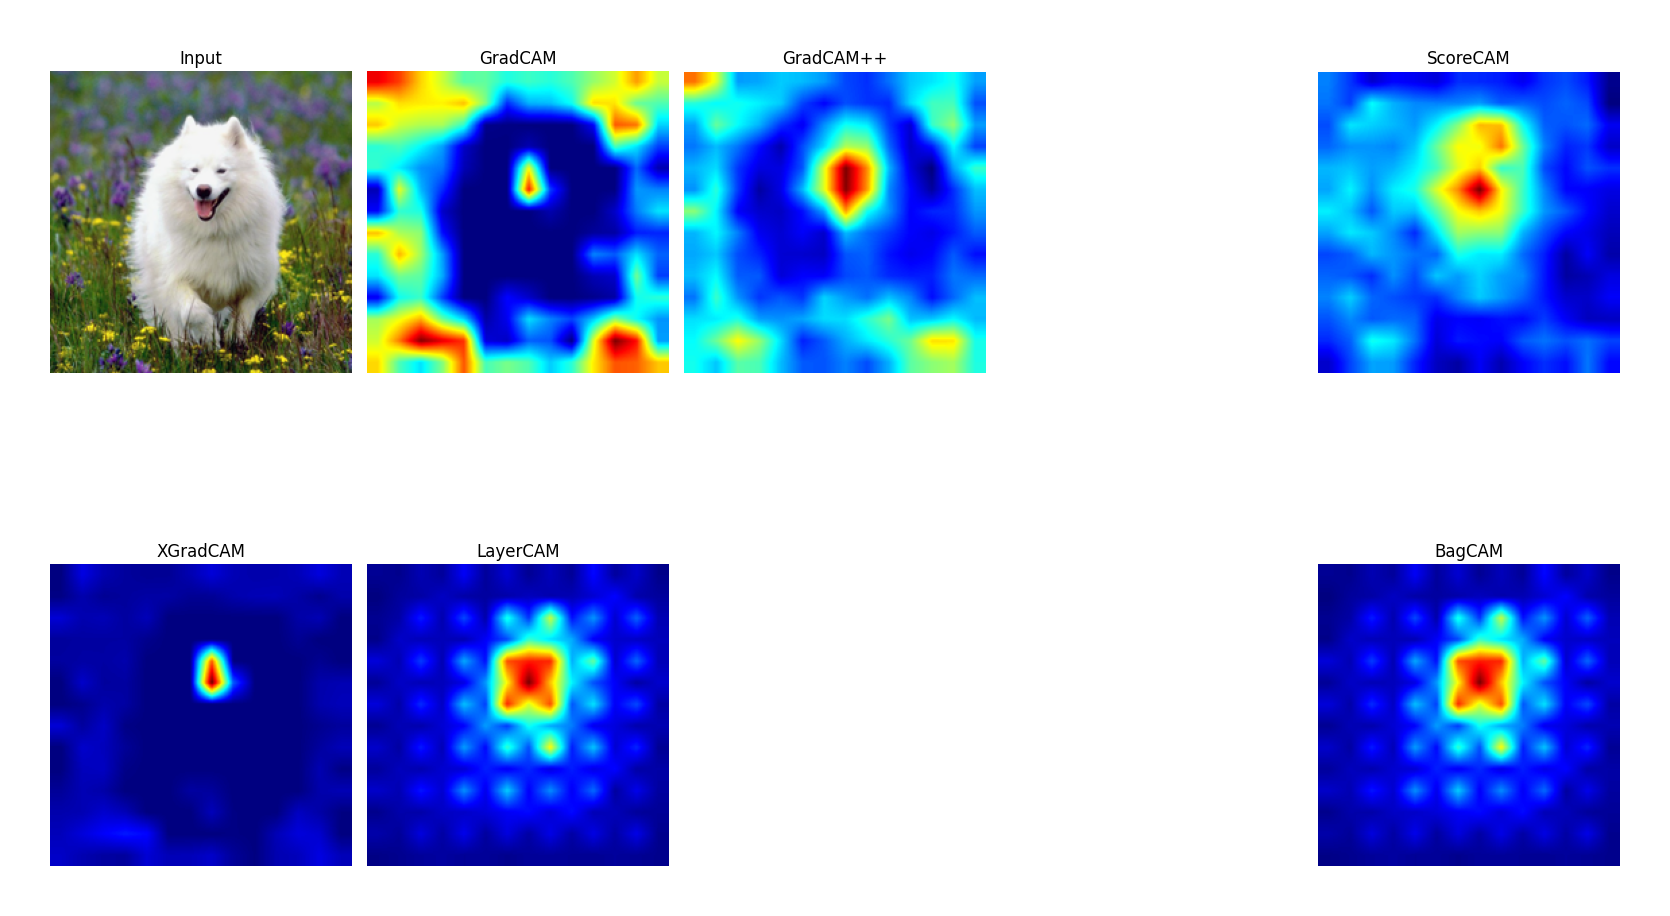
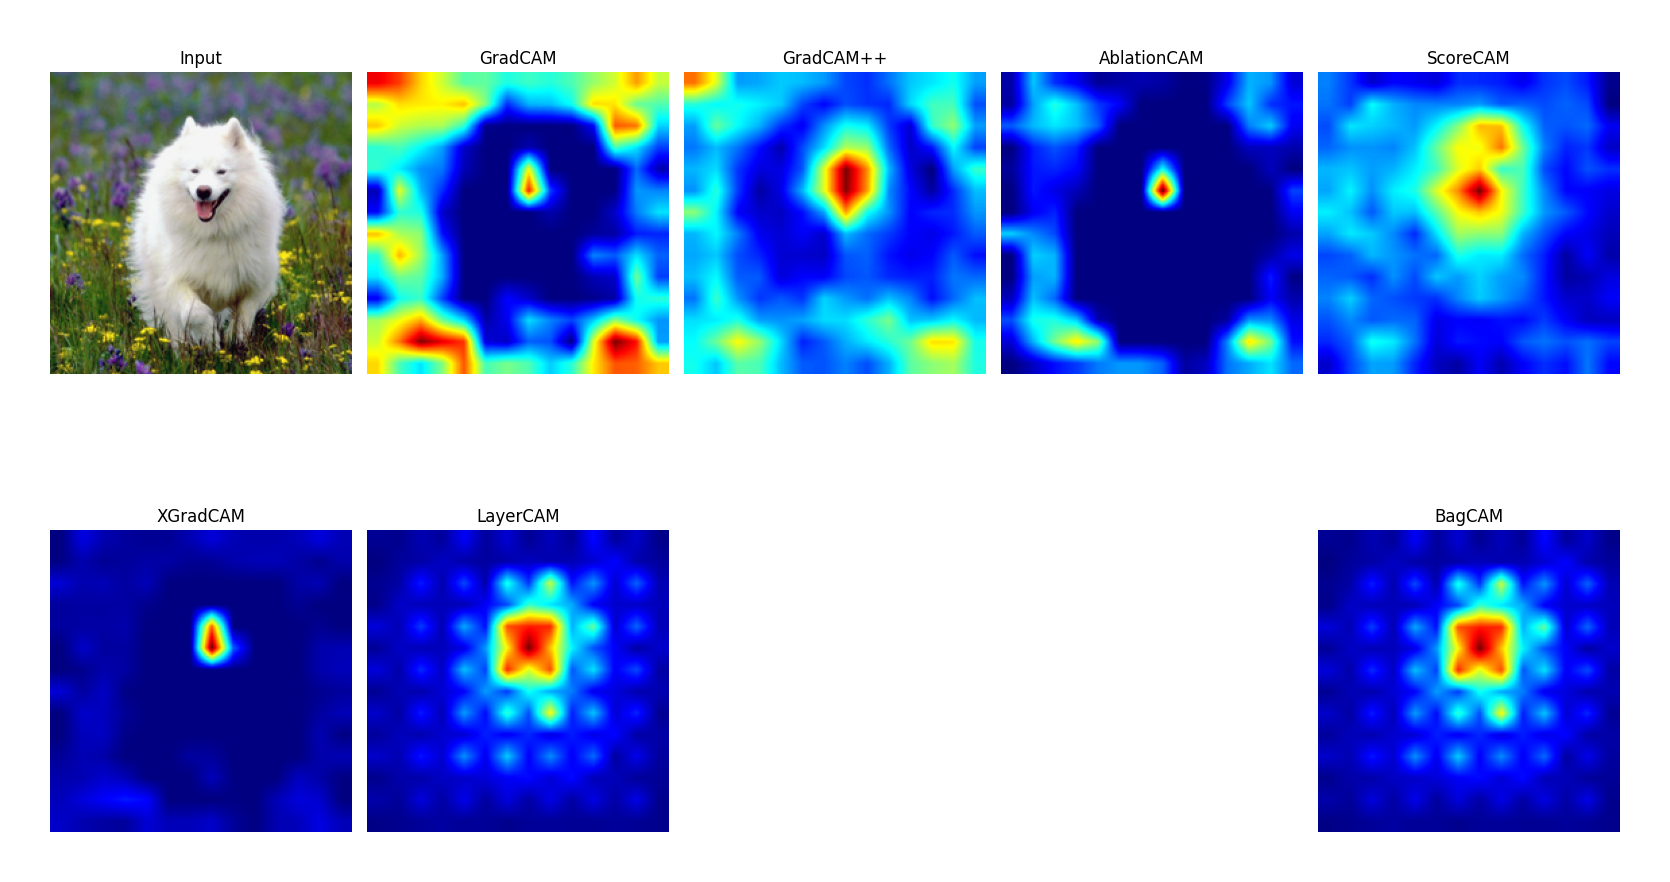
add ablation_cam, numpy codes

diff --git a/attribution/ablation_cam.py b/attribution/ablation_cam.py
@@ -1,0 +1,175 @@
+from .base import CAMWrapper
+from attribution.utils import replace_layer_recursive, get_2d_projection
+
+import numpy as np
+import torch
+from torch.nn import functional as F
+
+class AblationLayer(torch.nn.Module):
+    def __init__(self):
+        super(AblationLayer, self).__init__()
+
+    def objectiveness_mask_from_svd(self, feature_maps, threshold=0.01):
+        projection = get_2d_projection(feature_maps[None, :])[0, :]
+        projection = np.abs(projection)
+        projection = projection - projection.min()
+        projection = projection / projection.max()
+        projection = projection > threshold
+        return projection
+
+    def feature_maps_to_be_ablated(
+            self,
+            feature_maps,
+            ratio_channels_to_ablate=1.0):
+        if ratio_channels_to_ablate == 1.0:
+            self.indices = np.int32(range(feature_maps.shape[0]))
+            return self.indices
+
+        projection = self.objectiveness_mask_from_svd(feature_maps)
+
+        scores = []
+        for channel in feature_maps:
+            normalized = np.abs(channel)
+            normalized = normalized - normalized.min()
+            normalized = normalized / np.max(normalized)
+            score = (projection * normalized).sum() / normalized.sum()
+            scores.append(score)
+        scores = np.float32(scores)
+
+        indices = list(np.argsort(scores))
+        high_score_indices = indices[::-
+                                     1][: int(len(indices) *
+                                              ratio_channels_to_ablate)]
+        low_score_indices = indices[: int(
+            len(indices) * ratio_channels_to_ablate)]
+        self.indices = np.int32(high_score_indices + low_score_indices)
+        return self.indices
+
+    def set_next_batch(
+            self,
+            input_batch_index,
+            feature_maps: torch.Tensor,
+            num_channels_to_ablate):
+        self.feature_maps_ablation_layer = feature_maps[input_batch_index, :, :, :].clone(
+        ).unsqueeze(0).repeat(num_channels_to_ablate, 1, 1, 1)
+
+    def __call__(self, x):
+        output = self.feature_maps_ablation_layer
+        for i in range(output.size(0)):
+            # Commonly the minimum activation will be 0,
+            # And then it makes sense to zero it out.
+            # However depending on the architecture,
+            # If the values can be negative, we use very negative values
+            # to perform the ablation, deviating from the paper.
+            if torch.min(output) == 0:
+                output[i, self.indices[i], :] = 0
+            else:
+                ABLATION_VALUE = 1e7
+                output[i, self.indices[i], :] = torch.min(
+                    output) - ABLATION_VALUE
+
+        return output
+
+class AblationCAM(CAMWrapper):
+    def get_mask(self, img: torch.Tensor,
+                 target_class: torch.Tensor,
+                 target_layer: str,
+                 batch_size: int = 32,
+                 ratio_channels_to_ablate: float = 1.0):
+        
+        B, C, H, W = img.size()
+        self.model.eval()
+        self.model.zero_grad()
+
+        # class-specific backpropagation
+        logits = self.model(img)
+        target = self._encode_one_hot(target_class, logits)
+        self.model.zero_grad()
+        logits.backward(gradient=target, retain_graph=True)
+
+        get_targets = lambda o, target: o[target]
+        target_class = target_class.cpu().tolist()
+        if not isinstance(target_class, list):
+            target_class = [target_class]
+
+        original_scores = [get_targets(o, t).cpu().detach() for o, t in zip(logits, target_class)]
+        feature_maps = self._find(self.feature_maps, target_layer)
+
+        # save original layer and replace the model back to the original state later
+        original_target_layer = self.get_target_module(target_layer)
+        ablation_layer = AblationLayer()
+        replace_layer_recursive(self.model, original_target_layer, ablation_layer)
+
+        # get weights
+        number_of_channels = feature_maps.size(1)
+        weights = []
+        with torch.no_grad():
+            for batch_idx, (target, I) in enumerate(zip(target_class, img)):
+                new_scores = []
+                batch_tensor = I.repeat(batch_size, 1, 1, 1)
+
+                channels_to_ablate = ablation_layer.feature_maps_to_be_ablated(
+                    feature_maps[batch_idx, :], ratio_channels_to_ablate
+                )
+                number_of_channels_to_ablate = len(channels_to_ablate)
+
+                for i in range(0, number_of_channels_to_ablate, batch_size):
+                    if i + batch_size > number_of_channels_to_ablate:
+                        batch_tensor = batch_tensor[:(number_of_channels_to_ablate - i)]
+                    
+                    ablation_layer.set_next_batch(
+                        batch_idx, feature_maps, batch_tensor.size(0)
+                    )
+
+                    new_scores.extend([get_targets(o, target).cpu().detach() for o in self.model(batch_tensor)])
+                    ablation_layer.indices = ablation_layer.indices[batch_size:]
+                
+                new_scores = self.assemble_ablation_scores(
+                    new_scores, original_scores[batch_idx], channels_to_ablate, number_of_channels
+                )
+                weights.extend(new_scores)
+
+            weights = np.float32(weights)
+            weights = weights.reshape(feature_maps.shape[:2])
+            original_scores = np.array(original_scores)[:, None]
+            weights = (original_scores - weights) / original_scores
+            weights = torch.from_numpy(weights).to(self.device)[:, :, None, None]
+
+            cam = torch.mul(feature_maps, weights).sum(dim=1, keepdim=True)
+            cam = F.relu(cam)
+            cam = F.interpolate(cam, (H, W), mode='bilinear', align_corners=False)
+            cam = self.normalize_cam(cam)
+
+            replace_layer_recursive(self.model, ablation_layer, original_target_layer)
+            
+        return cam
+    
+    def get_target_module(self, target_layer: str):
+        for name, module in self.model.named_modules():
+            if name == target_layer:
+                return module
+        raise ValueError(f"Layer {target_layer} not found in model")
+    
+    def assemble_ablation_scores(self,
+                                 new_scores: list,
+                                 original_score: float,
+                                 ablated_channels: np.ndarray,
+                                 number_of_channels: int) -> np.ndarray:
+        """ Take the value from the channels that were ablated,
+            and just set the original score for the channels that were skipped """
+
+        index = 0
+        result = []
+        sorted_indices = np.argsort(ablated_channels)
+        ablated_channels = ablated_channels[sorted_indices]
+        new_scores = np.float32(new_scores)[sorted_indices]
+
+        for i in range(number_of_channels):
+            if index < len(ablated_channels) and ablated_channels[index] == i:
+                weight = new_scores[index]
+                index = index + 1
+            else:
+                weight = original_score
+            result.append(weight)
+
+        return result

diff --git a/cam_visualization_examples.py b/cam_visualization_examples.py
@@ -6,11 +6,15 @@ from timm.data import resolve_model_data_config
 from timm.data.transforms_factory import create_transform
 import requests
 
-from attribution import GradCAM, GradCAMPlusPlus, XGradCAM, BagCAM, ScoreCAM, LayerCAM
+from attribution import GradCAM, GradCAMPlusPlus, XGradCAM, BagCAM, ScoreCAM, LayerCAM, AblationCAM
 from attribution.utils import normalize_saliency, visualize_single_saliency
 
+import os
 
 if __name__ == '__main__':
+    # set CUDA_VISIBLE_DEVICES
+    os.environ['CUDA_VISIBLE_DEVICES'] = '2'
+
     # Load imagenet labels
     IMAGENET_1k_URL = 'https://storage.googleapis.com/bit_models/ilsvrc2012_wordnet_lemmas.txt'
     IMAGENET_1k_LABELS = requests.get(IMAGENET_1k_URL).text.strip().split('\n')
@@ -86,14 +90,19 @@ if __name__ == '__main__':
     print('BagCAM:', bag_cam.shape)
     
     # ScoreCAM
-    scorecam = ScoreCAM(model)
-    score_cam = normalize_saliency(scorecam.get_mask(img, target_index, target_layer))
+    scorecam_net = ScoreCAM(model)
+    score_cam = normalize_saliency(scorecam_net.get_mask(img, target_index, target_layer))
     print('ScoreCAM', score_cam.shape)
     
     # LayerCAM
-    layercam = LayerCAM(model)
-    layer_cam = normalize_saliency(layercam.get_mask(img, target_index, target_layer))
+    layercam_net = LayerCAM(model)
+    layer_cam = normalize_saliency(layercam_net.get_mask(img, target_index, target_layer))
     print('LayerCAM', layer_cam.shape)
+
+    # AblationCAM
+    ablationcam_net = AblationCAM(model)
+    ablation_cam = normalize_saliency(ablationcam_net.get_mask(img, target_index, target_layer))
+    print('AblationCAM', ablation_cam.shape)
     
     # Visualize the saliency maps
     plt.figure(figsize=(16, 10))
@@ -107,6 +116,9 @@ if __name__ == '__main__':
     plt.subplot(2,5,3)
     plt.title('GradCAM++')
     visualize_single_saliency(grad_cam_plus_plus[0].unsqueeze(0))
+    plt.subplot(2,5,4)
+    plt.title('AblationCAM')
+    visualize_single_saliency(ablation_cam[0].unsqueeze(0))
     plt.subplot(2,5,5)
     plt.title('ScoreCAM')
     visualize_single_saliency(score_cam[0].unsqueeze(0))

diff --git a/attribution/utils/access_layers.py b/attribution/utils/access_layers.py
@@ -1,0 +1,32 @@
+import torch
+
+def replace_layer_recursive(model: torch.nn.Module, old_layer: torch.nn.Module, new_layer: torch.nn.Module):
+    for name, layer in model._modules.items():
+        if layer == old_layer:
+            model._modules[name] = new_layer
+            return True
+        elif replace_layer_recursive(layer, old_layer, new_layer):
+            return True
+    return False
+
+
+def replace_all_layer_type_recursive(model: torch.nn.Module, old_layer_type: torch.nn.Module, new_layer: torch.nn.Module):
+    for name, layer in model._modules.items():
+        if isinstance(layer, old_layer_type):
+            model._modules[name] = new_layer
+        replace_all_layer_type_recursive(layer, old_layer_type, new_layer)
+
+
+def find_layer_types_recursive(model: torch.nn.Module, layer_types: torch.nn.Module):
+    def predicate(layer):
+        return type(layer) in layer_types
+    return find_layer_predicate_recursive(model, predicate)
+
+
+def find_layer_predicate_recursive(model: torch.nn.Module, predicate):
+    result = []
+    for name, layer in model._modules.items():
+        if predicate(layer):
+            result.append(layer)
+        result.extend(find_layer_predicate_recursive(layer, predicate))
+    return result

diff --git a/attribution/utils/svd_on_feature_maps.py b/attribution/utils/svd_on_feature_maps.py
@@ -1,0 +1,19 @@
+import numpy as np
+import torch
+
+def get_2d_projection(activation_batch):
+    # TODO: use pytorch batch svd implementation
+    activation_batch[np.isnan(activation_batch)] = 0
+    projections = []
+    for activations in activation_batch:
+        reshaped_activations = (activations).reshape(
+            activations.shape[0], -1).transpose()
+        # Centering before the SVD seems to be important here,
+        # Otherwise the image returned is negative
+        reshaped_activations = reshaped_activations - \
+            reshaped_activations.mean(axis=0)
+        U, S, VT = np.linalg.svd(reshaped_activations, full_matrices=True)
+        projection = reshaped_activations @ VT[0, :]
+        projection = projection.reshape(activations.shape[1:])
+        projections.append(projection)
+    return np.float32(projections)

diff --git a/attribution/utils/__init__.py b/attribution/utils/__init__.py
@@ -1,1 +1,3 @@
 from .visualization_maps import normalize_saliency, visualize_single_saliency
+from .access_layers import find_layer_predicate_recursive, find_layer_types_recursive, replace_all_layer_type_recursive, replace_layer_recursive
+from .svd_on_feature_maps import get_2d_projection

diff --git a/attribution/__init__.py b/attribution/__init__.py
@@ -9,3 +9,4 @@ from .xgrad_cam import XGradCAM
 from .bag_cam import BagCAM
 from .score_cam import ScoreCAM
 from .layer_cam import LayerCAM
+from .ablation_cam import AblationCAM
